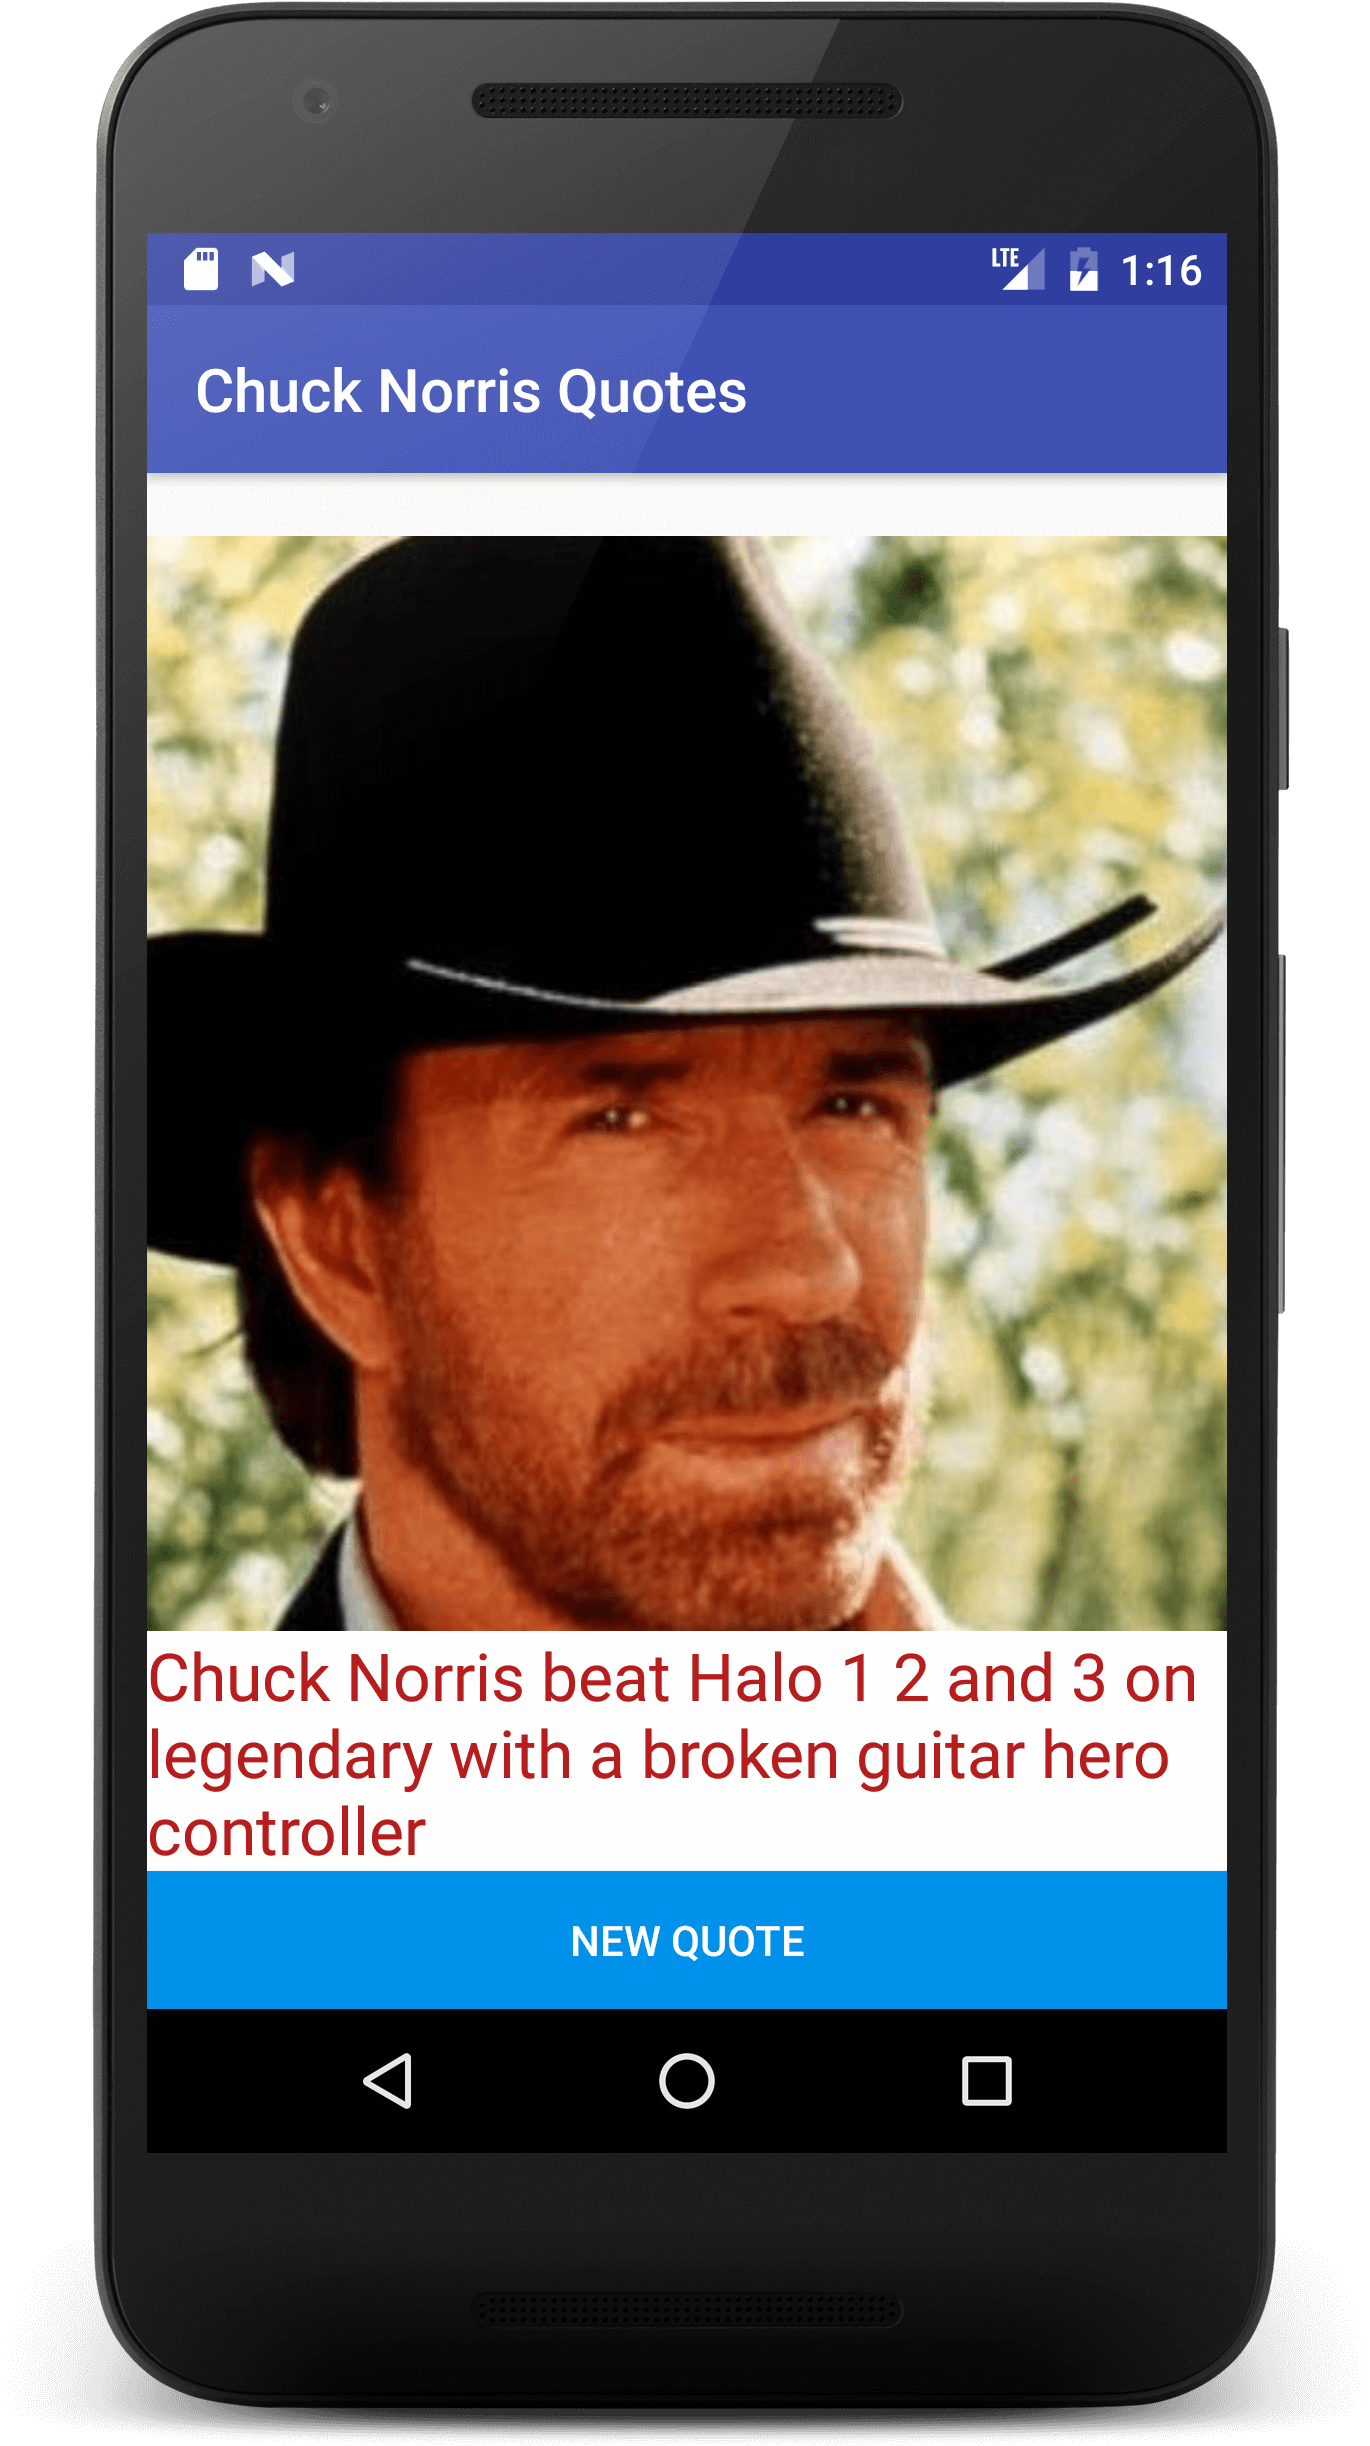
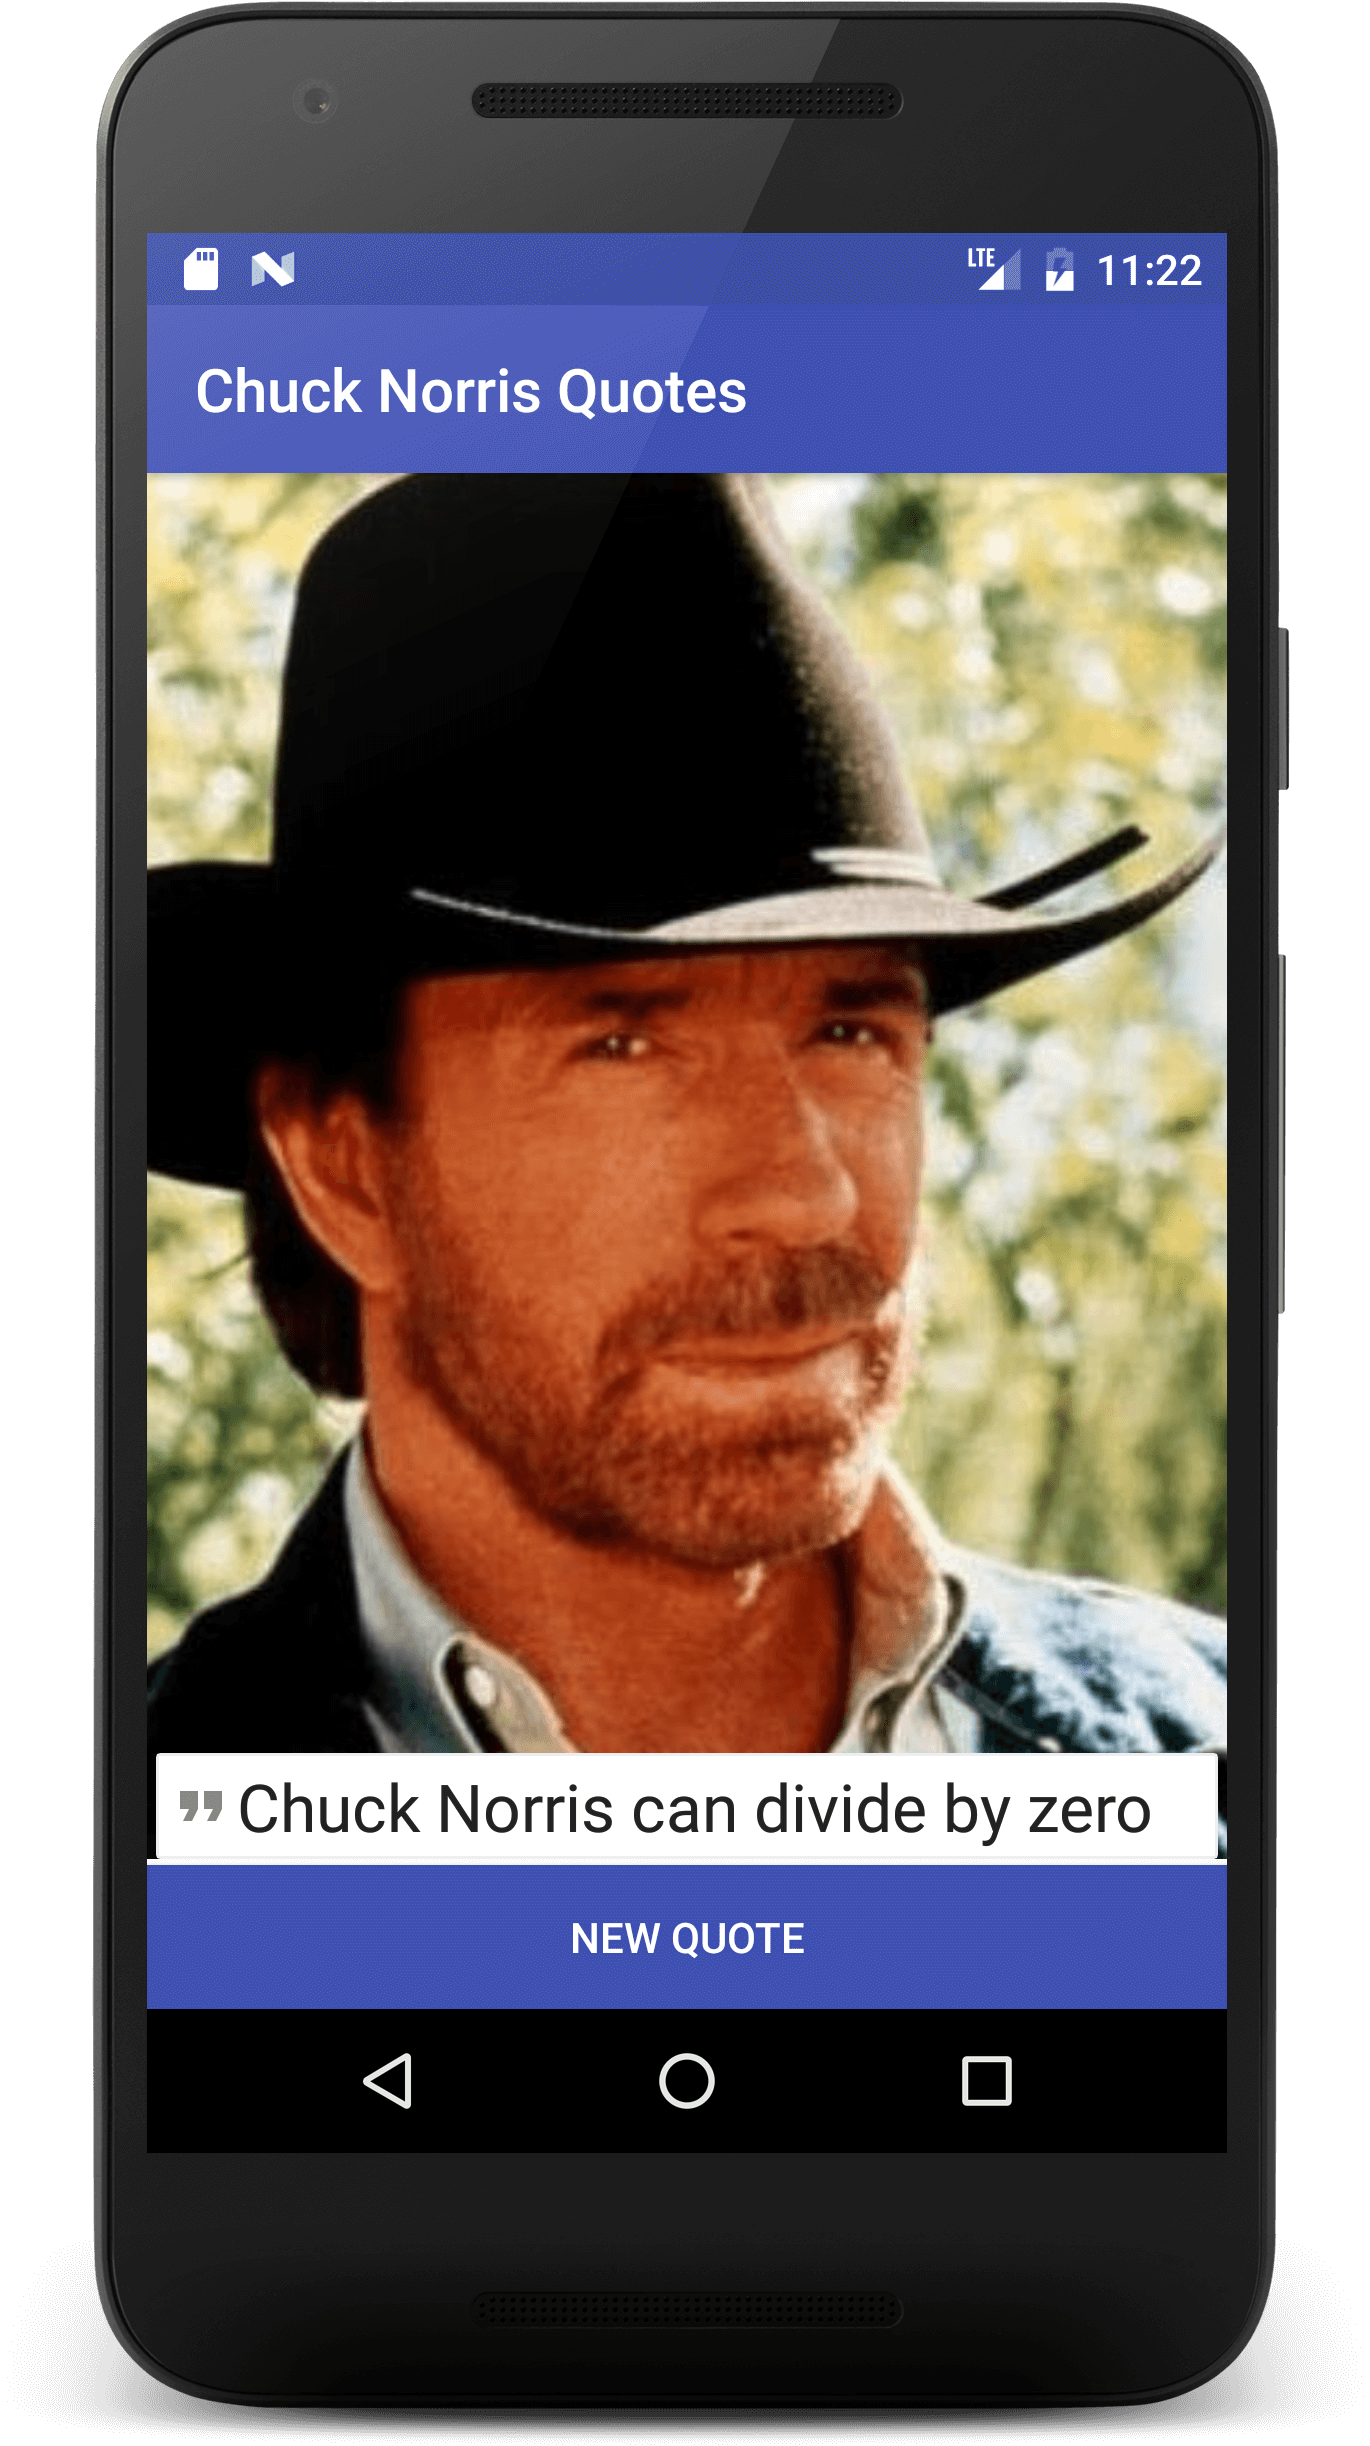
updated Chuck app look, refactored

diff --git a/Android-ChuckNorrisQuotes/app/src/main/java/com/xr86/chucknorrisquotes/MainActivity.java b/Android-ChuckNorrisQuotes/app/src/main/java/com/xr86/chucknorrisquotes/MainActivity.java
@@ -53,7 +53,7 @@ public class MainActivity extends AppCompatActivity {
             //System.out.println(result.toString());
             JSONObject jsonObj = new JSONObject(result.toString());
 
-            String quote = jsonObj.getString("value");
+            String quote = "\u0020" + jsonObj.getString("value");
             //System.out.println(quote);
 
             TextView_quote.setText(quote);

diff --git a/Android-ChuckNorrisQuotes/README.md b/Android-ChuckNorrisQuotes/README.md
@@ -3,8 +3,7 @@ just java stuff ...
 
 ### App todo:
 + might need to **change API** (some jokes have mispellings, to say the least)
-+ textView, if too long, **falls under button** (because margin is hardcoded ? - should set in RelativeLayout)
-+ **update look**
++ should add ripple animation on button
 
 ### App description
 App starts with a joke, you can get a new one by pressing on the button, and if you have an internet connection, it will fetch a new joke ([api.chucknorris.io](https://api.chucknorris.io/)), and will display it.
